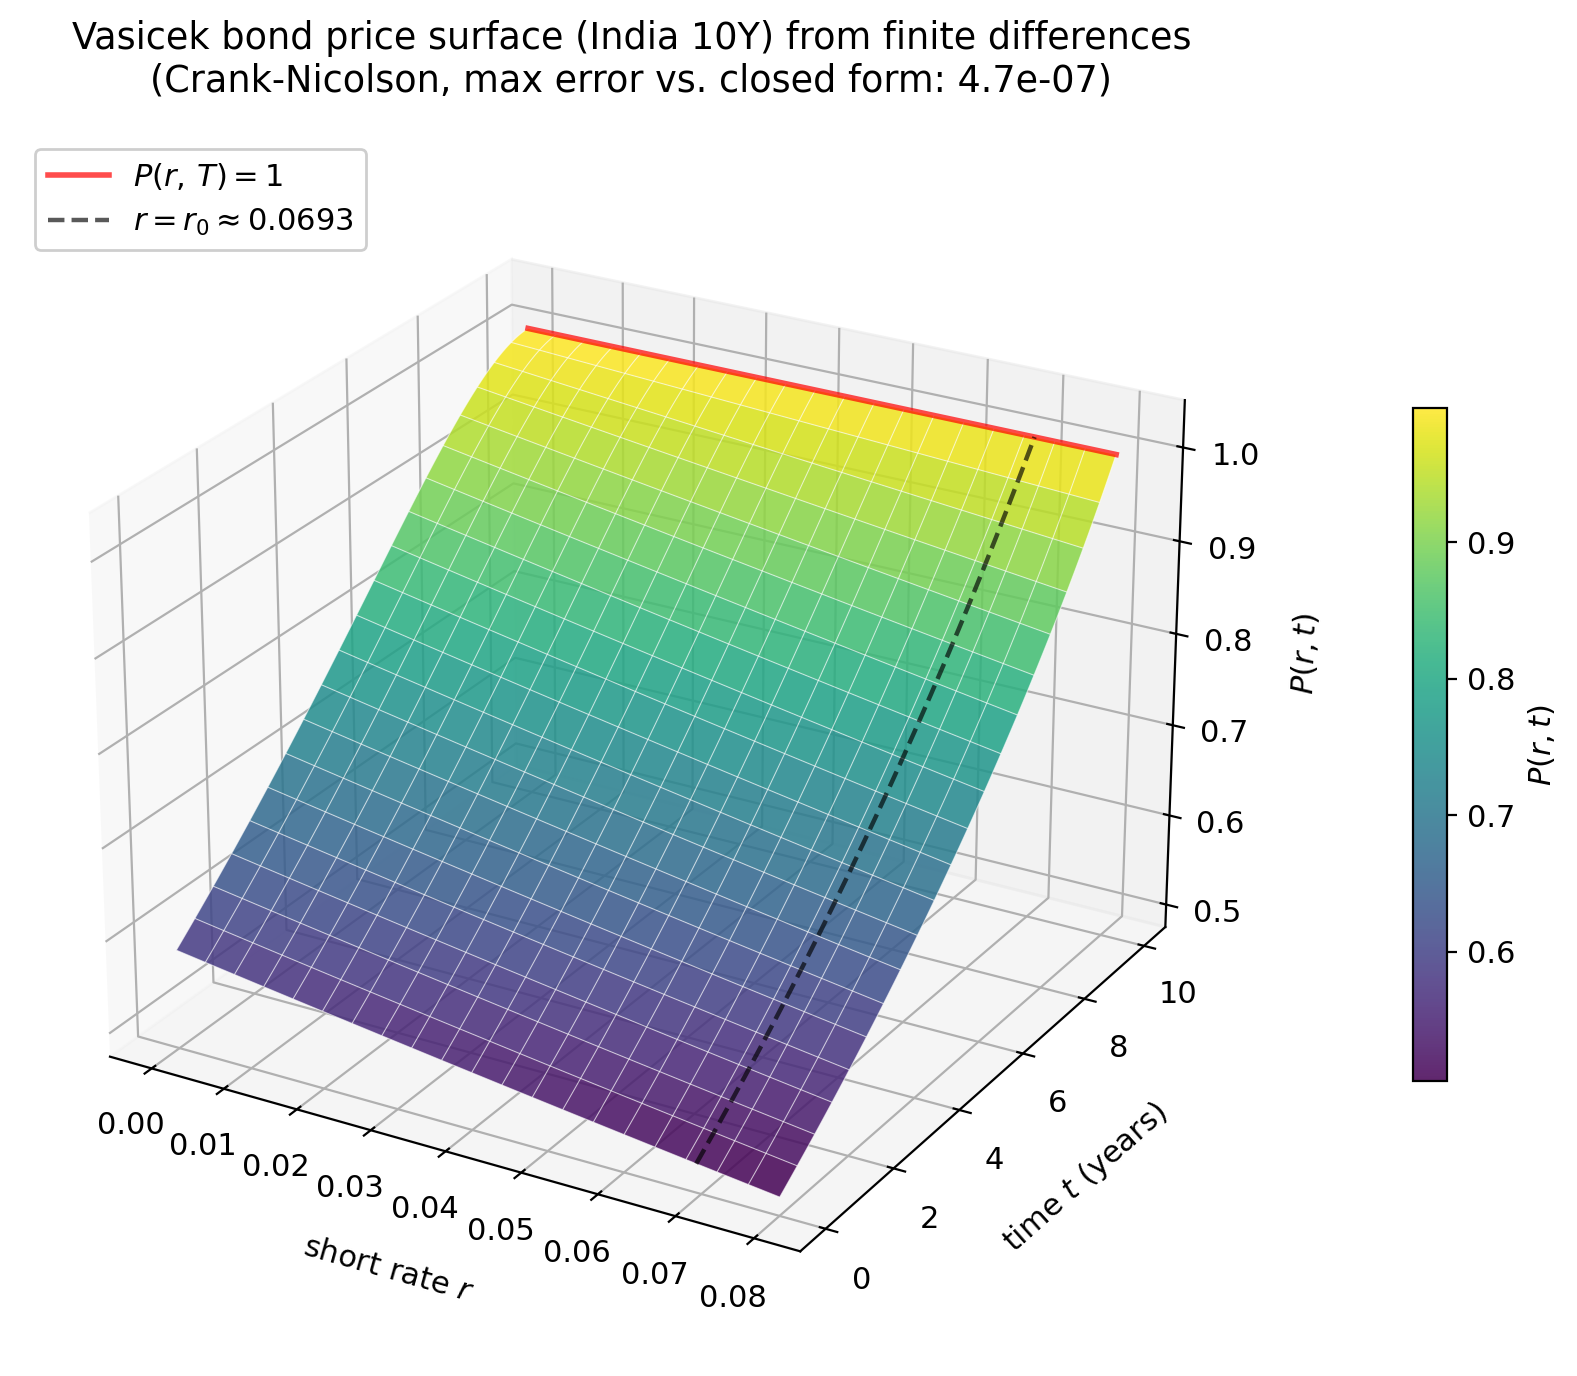
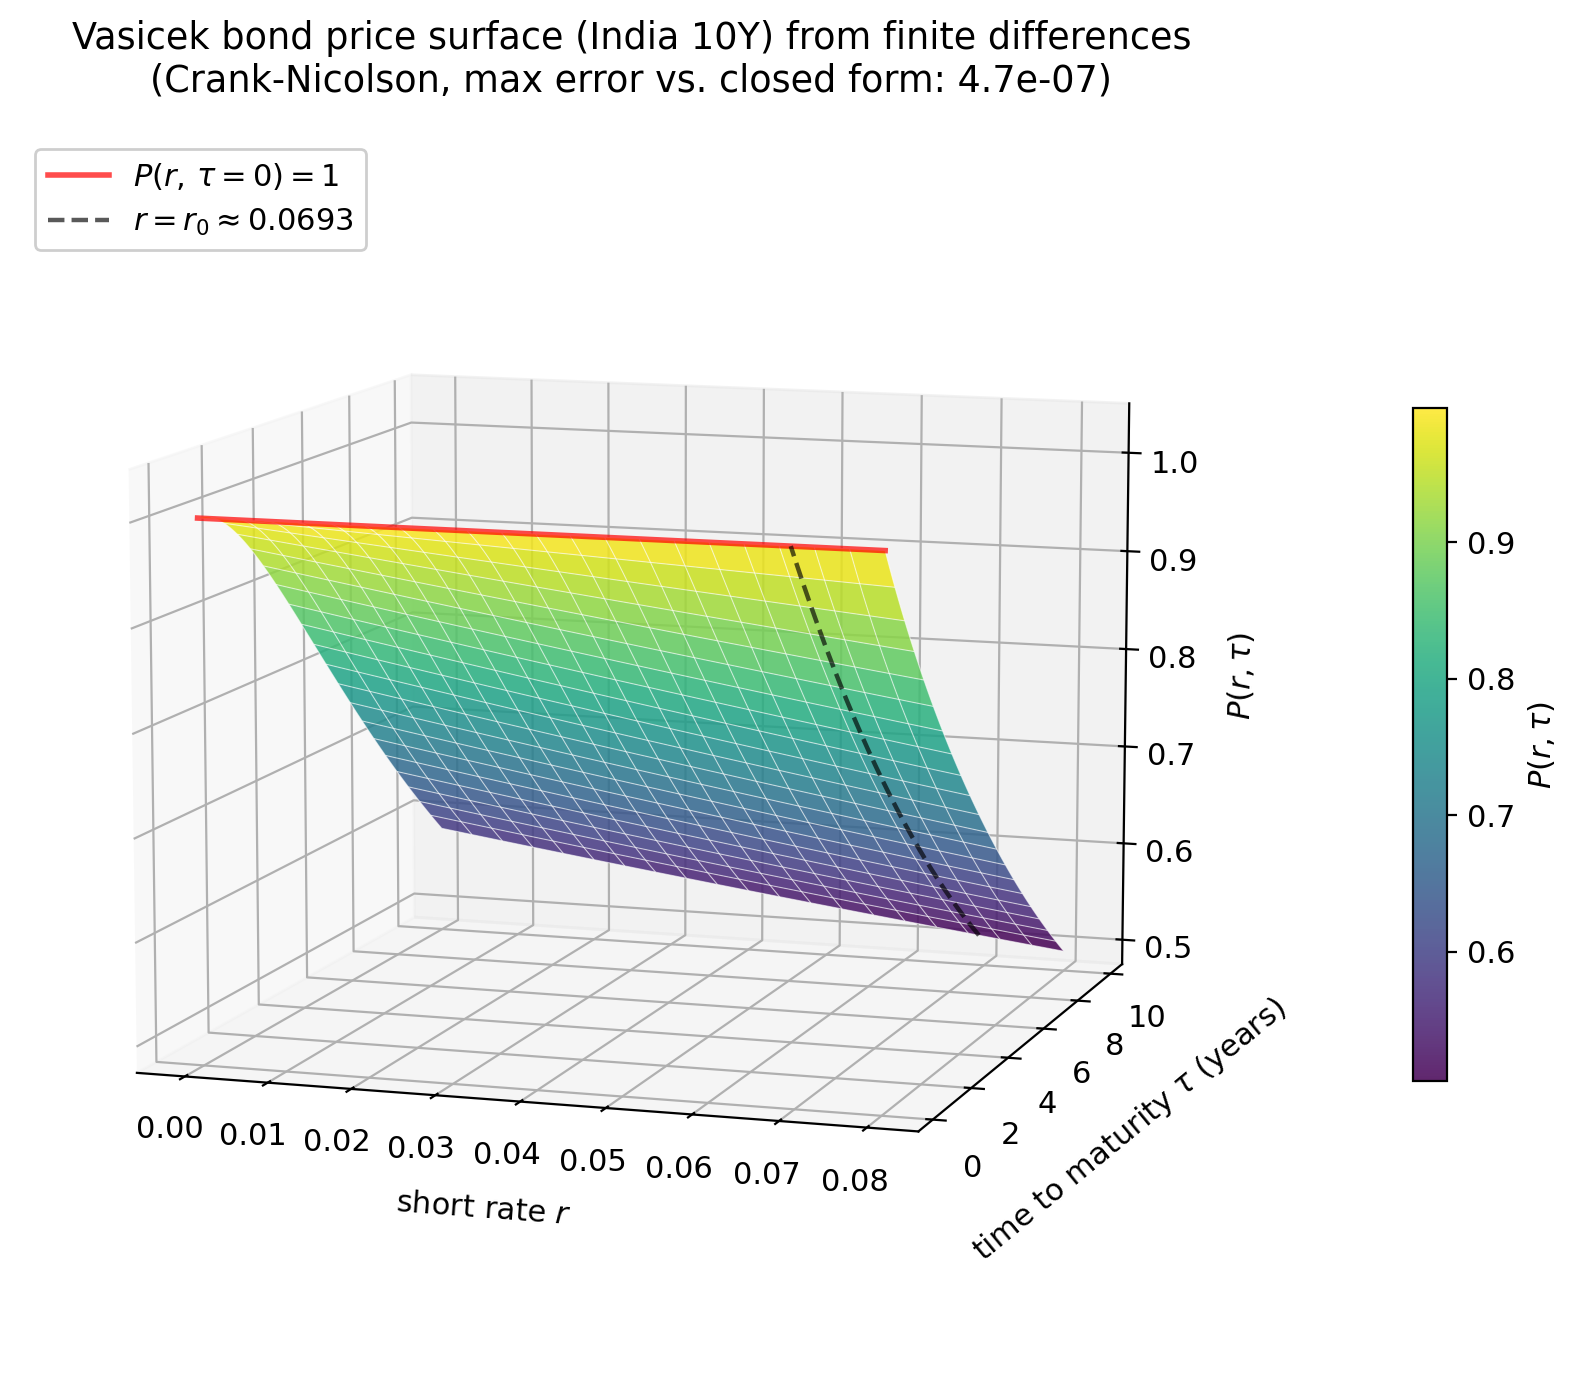
new

diff --git a/fdm.py b/fdm.py
@@ -118,42 +118,46 @@ def solve_and_plot(label, a, b, sigma, r0, T=10.0,
     fig = plt.figure(figsize=(11, 7))
     ax  = fig.add_subplot(111, projection="3d")
 
+    # Plot against time-to-maturity tau = T - t (forward in tau: 0 at maturity, T today)
+    Tau = T - Tg
+    tau_grid = T - t_grid
+
     surf = ax.plot_surface(
-        R, Tg, P,
+        R, Tau, P,
         rstride=stride_t, cstride=stride_r,
         cmap=cm.viridis, alpha=0.85,
         linewidth=0, antialiased=True,
         edgecolor="none",
     )
     ax.plot_wireframe(
-        R, Tg, P,
+        R, Tau, P,
         rstride=stride_t, cstride=stride_r,
         color="white", linewidth=0.4, alpha=0.6,
     )
 
-    # Terminal condition edge: P(r, T) = 1
-    ax.plot(r_grid, np.full_like(r_grid, T), np.ones_like(r_grid),
+    # Terminal condition edge: P(r, tau=0) = 1
+    ax.plot(r_grid, np.zeros_like(r_grid), np.ones_like(r_grid),
             color="red", lw=2.0, alpha=0.7, zorder=10,
-            label=r"$P(r,\,T)=1$")
+            label=r"$P(r,\,\tau=0)=1$")
 
-    # Dashed line tracing P(r0, t) at today's short rate
+    # Dashed line tracing P(r0, tau) at today's short rate
     P_r0 = interp(np.column_stack([t_grid, np.full_like(t_grid, r0)]))
-    ax.plot(np.full_like(t_grid, r0), t_grid, P_r0,
+    ax.plot(np.full_like(tau_grid, r0), tau_grid, P_r0,
             color="black", lw=1.6, ls="--", alpha=0.65, zorder=10,
             label=rf"$r=r_0\approx{r0:.4f}$")
 
     ax.set_xlabel("short rate $r$", labelpad=10)
-    ax.set_ylabel("time $t$ (years)", labelpad=10)
-    ax.set_zlabel("$P(r, t)$", labelpad=8)
+    ax.set_ylabel(r"time to maturity $\tau$ (years)", labelpad=10)
+    ax.set_zlabel(r"$P(r, \tau)$", labelpad=8)
     ax.set_title(f"Vasicek bond price surface ({label}) from finite differences\n"
                  f"(Crank-Nicolson, max error vs. closed form: {abs_err.max():.1e})",
                  pad=15)
-    ax.view_init(elev=25, azim=-60)
+    ax.view_init(elev=10, azim=-72)
     ax.set_zlim(min(0.6, P.min() - 0.02), 1.05)
     ax.legend(loc="upper left", framealpha=0.95)
 
     cbar = fig.colorbar(surf, shrink=0.55, aspect=20, pad=0.08)
-    cbar.set_label("$P(r, t)$")
+    cbar.set_label(r"$P(r, \tau)$")
 
     fig.tight_layout()
     surface_name = f"fig5_fdm_surface_{tag}.png"
@@ -165,15 +169,15 @@ def solve_and_plot(label, a, b, sigma, r0, T=10.0,
     fig2 = plt.figure(figsize=(10, 6))
     ax2  = fig2.add_subplot(111, projection="3d")
     ax2.plot_surface(
-        R, Tg, np.log10(abs_err + 1e-16),
+        R, Tau, np.log10(abs_err + 1e-16),
         rstride=stride_t, cstride=stride_r,
         cmap=cm.magma, alpha=0.9, edgecolor="none",
     )
     ax2.set_xlabel("short rate $r$")
-    ax2.set_ylabel("time $t$ (years)")
+    ax2.set_ylabel(r"time to maturity $\tau$ (years)")
     ax2.set_zlabel(r"$\log_{10}\,|P_{\mathrm{FDM}} - P_{\mathrm{exact}}|$")
     ax2.set_title(f"Pointwise FDM error ({label}, log scale)", pad=15)
-    ax2.view_init(elev=20, azim=-130)
+    ax2.view_init(elev=10, azim=-72)
     fig2.tight_layout()
     error_name = f"fig6_fdm_error_{tag}.png"
     fig2.savefig(error_name, dpi=200, bbox_inches="tight")

diff --git a/poster_summary.tex b/poster_summary.tex
@@ -1,0 +1,60 @@
+\documentclass[11pt,a4paper]{article}
+
+\usepackage[utf8]{inputenc}
+\usepackage[T1]{fontenc}
+\usepackage[swedish]{babel}
+\usepackage{amsmath, amssymb}
+\usepackage{geometry}
+\geometry{margin=2.5cm}
+\usepackage{parskip}
+
+\newcommand{\dd}{\mathrm{d}}
+
+\title{Sammanfattning för poster}
+\author{Projektarbete SF1693, KTH VT 2026}
+\date{\today}
+
+\begin{document}
+\maketitle
+
+\paragraph{OU-processen.}
+Vi studerar Ornstein--Uhlenbeck-processen
+$\dd X_t = \theta(\mu - X_t)\,\dd t + \sigma\,\dd W_t$ och härleder
+dess analytiska lösning med integrerande faktor. Lösningen är
+Gaussisk med medelvärde $\mu + (x_0-\mu)e^{-\theta t}$ och varians
+$\sigma^2(1-e^{-2\theta t})/(2\theta)$, med stationär fördelning
+$\mathcal{N}(\mu, \sigma^2/(2\theta))$.
+
+\paragraph{Fokker--Planck.}
+Tätheten $p(x,t)$ uppfyller PDE:n
+$\partial_t p = -\partial_x[\theta(\mu-x)p] + \tfrac{1}{2}\sigma^2 \partial_{xx} p$.
+Vi löser den numeriskt med finita differenser och jämför mot den
+explicita Gaussiska referenstätheten.
+
+\paragraph{Vasicek-modellen.}
+Som finansiell tillämpning prissätter vi nollkupongsobligationer
+under $\dd r_t = a(b-r_t)\,\dd t + \sigma\,\dd W_t$. Feynman--Kac
+ger termstruktur-PDE:n, och en exponentiellt-affin ansats
+$P = \exp(A - Br)$ reducerar PDE:n till ett ODE-system med sluten
+lösning för $A(t,T)$ och $B(t,T)$.
+
+\paragraph{Monte Carlo.}
+Vi simulerar räntebanor med den exakta Gaussiska övergångsfördelningen,
+trapetsintegrerar diskonteringen och medelvärdesbildar. Skattaren
+stämmer med den slutna Vasicek-formeln inom statistisk osäkerhet vid
+$N\sim 10^5$ banor.
+
+\paragraph{Finita differenser för Vasicek.}
+Termstruktur-PDE:n löses också direkt med Crank--Nicolson på ett
+$(r,t)$-rutnät, med Dirichlet-rand från den slutna formeln. Med
+parametrar skattade ur 10-åriga obligationsdata (Sverige och Indien)
+återges priset $P(r,t)$ med maximalt fel $\sim 2\cdot 10^{-7}$.
+
+\paragraph{Slutsats.}
+OU-processen kopplar fysik och finans: en SDE med ren analytisk
+lösning, en tillhörande PDE för tätheten, och en finansiell tillämpning
+i Vasicek-modellen. Tre numeriska metoder --- FD för Fokker--Planck,
+FD för obligationspriset och Monte Carlo --- bekräftar de slutna
+formlerna.
+
+\end{document}
